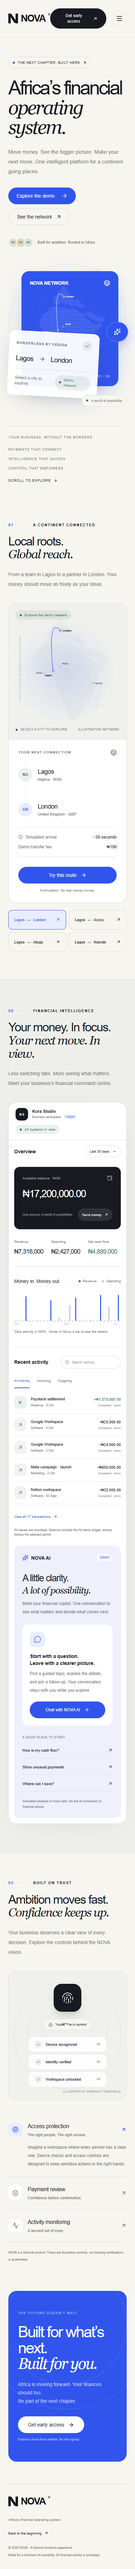
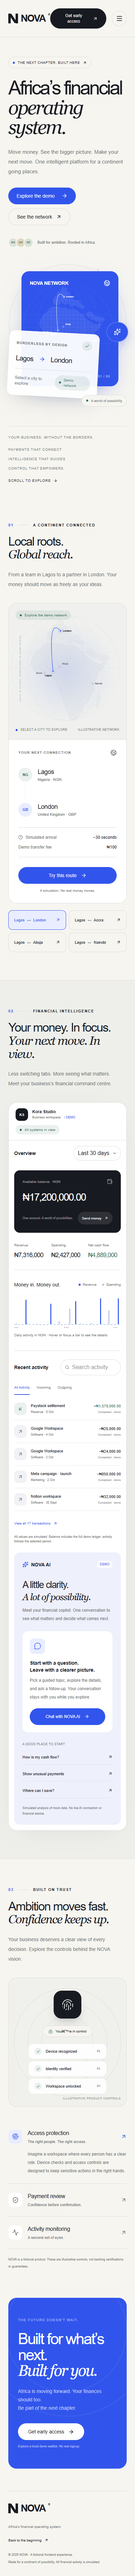
Update text sizes for better accessibility across components

diff --git a/src/components/chat/ChatDialog.tsx b/src/components/chat/ChatDialog.tsx
@@ -84,7 +84,7 @@ export default function ChatDialog({
                 aria-label="AI reporting period"
                 value={days}
                 onChange={(e) => onDays(Number(e.target.value))}
-                className="appearance-none rounded-full border border-line bg-paper py-2 pr-7 pl-3 text-[10px]"
+                className="appearance-none rounded-full border border-line bg-paper py-2 pr-7 pl-3 text-base md:text-[10px] [@media(pointer:coarse)]:text-base"
               >
                 {[7, 30, 90].map((d) => (
                   <option key={d} value={d}>
@@ -269,7 +269,7 @@ export default function ChatDialog({
                   maxLength={500}
                   aria-describedby="chat-instructions"
                   placeholder="Ask about your finances…"
-                  className="max-h-28 min-w-0 flex-1 resize-none bg-transparent py-2 text-xs leading-5 outline-none"
+                  className="max-h-28 min-w-0 flex-1 resize-none bg-transparent py-2 text-base leading-5 outline-none md:text-xs [@media(pointer:coarse)]:text-base"
                 />
                 <button
                   type="submit"

diff --git a/src/components/Dashboard.tsx b/src/components/Dashboard.tsx
@@ -112,7 +112,7 @@ export default function Dashboard({
                       onDays(Number(e.target.value));
                       setShowAll(false);
                     }}
-                    className="appearance-none rounded-full border border-line bg-white py-2 pr-8 pl-3 text-[10px]"
+                    className="appearance-none rounded-full border border-line bg-white py-2 pr-8 pl-3 text-base md:text-[10px] [@media(pointer:coarse)]:text-base"
                   >
                     {[7, 30, 90].map((d) => (
                       <option key={d} value={d}>
@@ -178,7 +178,7 @@ export default function Dashboard({
                         setShowAll(false);
                       }}
                       placeholder="Search activity"
-                      className="w-32 bg-transparent py-2.5 text-[10px] outline-none sm:w-40"
+                      className="w-32 bg-transparent py-2.5 text-base outline-none sm:w-40 md:text-[10px] [@media(pointer:coarse)]:text-base"
                     />
                   </div>
                 </div>

diff --git a/src/components/WaitlistDialog.tsx b/src/components/WaitlistDialog.tsx
@@ -66,7 +66,7 @@ export default function WaitlistDialog({ onClose }: { onClose: () => void }) {
             placeholder="you@company.com"
             aria-invalid={!!error}
             aria-describedby="waitlist-note waitlist-error"
-            className="mb-4 w-full rounded-xl border border-line bg-white p-4 text-sm"
+            className="mb-4 w-full rounded-xl border border-line bg-white p-4 text-base md:text-sm [@media(pointer:coarse)]:text-base"
           />
           {error && (
             <p

diff --git a/docs/AI_DEVELOPMENT_LOG.md b/docs/AI_DEVELOPMENT_LOG.md
@@ -57,3 +57,11 @@ Actual instruction: “let's move the the nova aI do dedicated chat bot modal wi
 - Browser inspection found native Tab cycling could leave document focus when the send button was disabled. Added explicit forward/reverse focus cycling to the shared modal, while preserving Escape, backdrop dismissal, body scroll restoration, and return focus.
 - Corrected the old browser assertions to check contained transfer-dialog focus and security stage text including its number; adapted the financial flow test to the new AI modal.
 - Verification: ten unit tests passed; full application browser flow passed; dedicated chatbot browser checks passed, including desktop/tablet/mobile and a short viewport. Build and lint passed. No live model, backend, persistent transcript, or real financial action was introduced.
+
+## Later correction — iPhone input focus zoom
+
+Actual instruction: “text imput on iphone zooms out”.
+
+- Found the chat textarea rendered at 12px, with other form controls at 10–14px. Changed chat, search, waitlist, and period controls to Tailwind `text-base` on small screens and coarse-pointer devices, including landscape phones. Larger transfer input text already exceeds 16px.
+- Kept the viewport unrestricted so users retain pinch-to-zoom. Desktop typography remains at its previous size for fine-pointer devices.
+- Verified computed font sizes are 16px in touch-device emulation at 390×844 and 844×390. Build, full browser flow, and dedicated chat browser checks passed. Physical iPhone Safari focus behavior was not directly tested.
